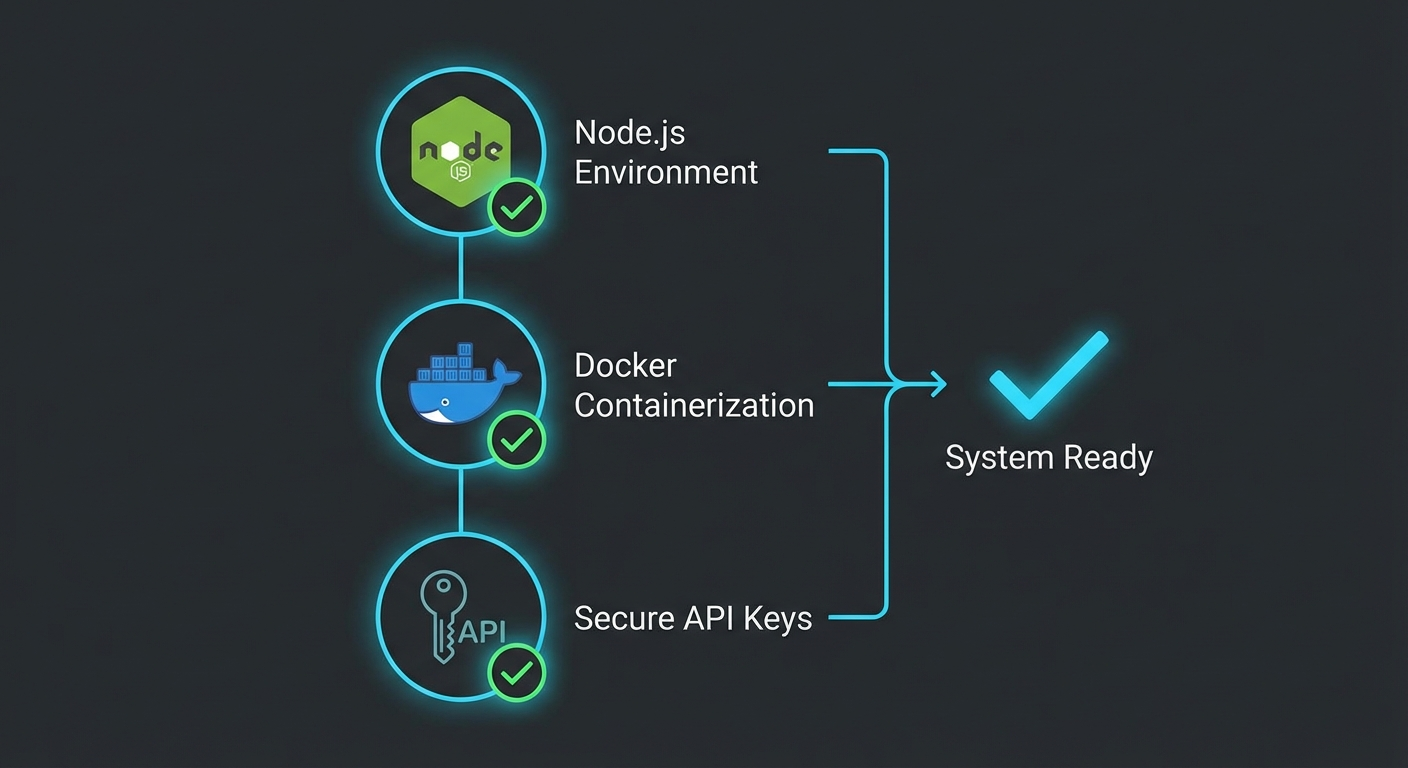
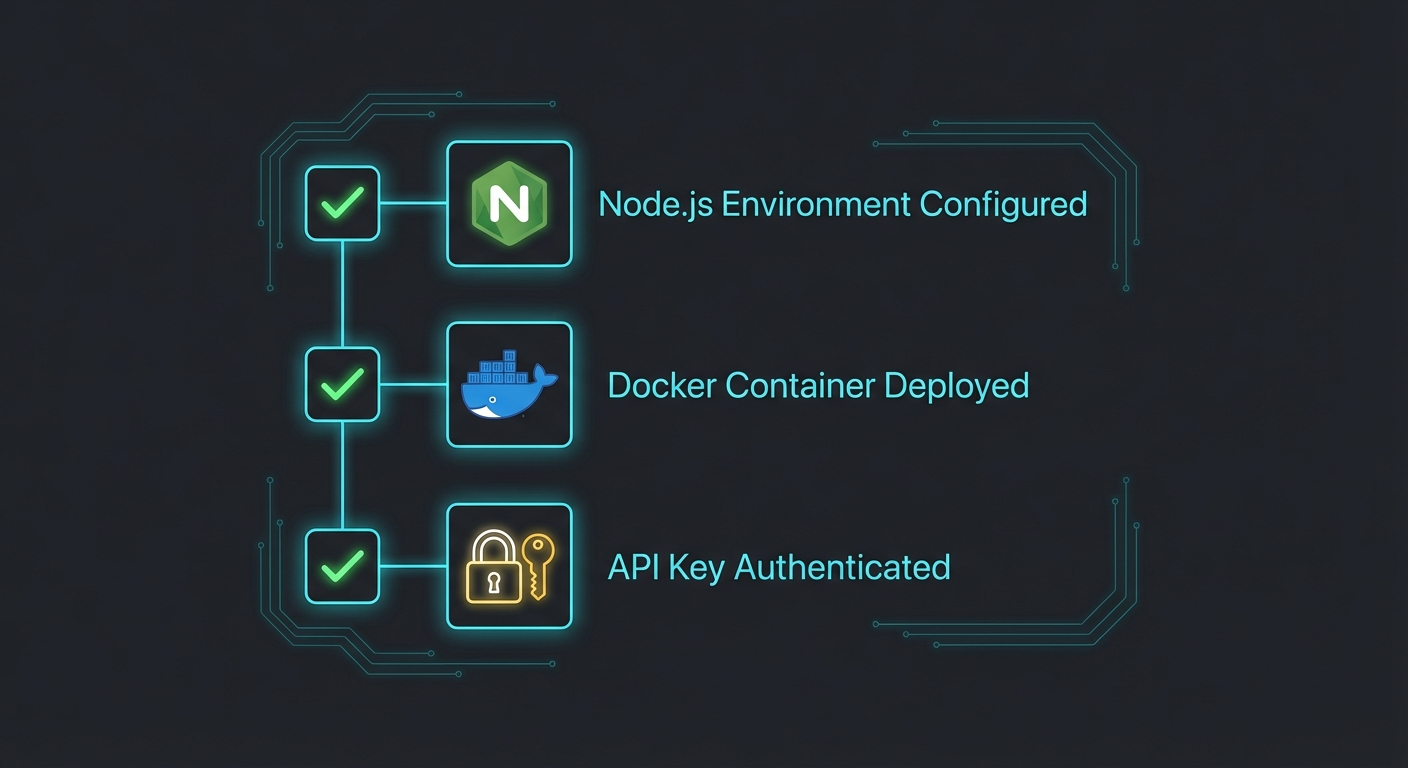
Replace generic images with unique context-specific images per page

Changed region(s): [[0.1875, 0.0625, 0.8125, 0.9375], [0.6562, 0.1562, 0.7812, 0.1875], [0.7812, 0.75, 0.8125, 0.8125]]

diff --git a/blog/openclaw-getting-started.html b/blog/openclaw-getting-started.html
@@ -349,7 +349,7 @@ export PATH=~/npm-global/bin:$PATH</code></pre>
 
                 <!-- Infographic -->
                 <figure style="margin: 3rem 0;">
-                    <img src="/images/agentic-ai-infographic.jpg" alt="OpenClaw installation steps infographic" style="width: 100%; height: auto; border-radius: 12px;">
+                    <img src="/images/openclaw-install-troubleshoot.jpg" alt="OpenClaw installation steps infographic" style="width: 100%; height: auto; border-radius: 12px;">
                     <figcaption style="text-align: center; color: #8892b0; font-size: 0.875rem; margin-top: 0.75rem;">From zero to running agent: the full installation path</figcaption>
                 </figure>
 
